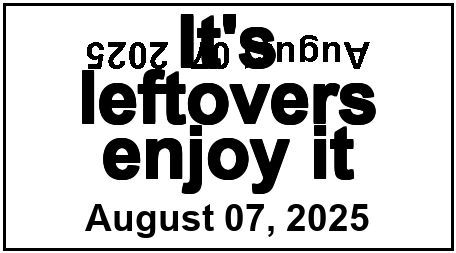
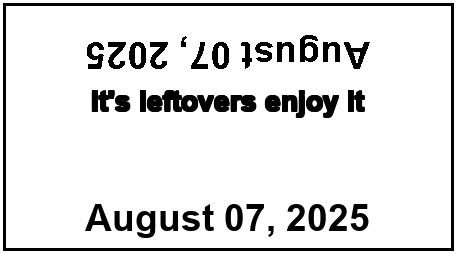
2. Improved fallback handling when no font size fits properly

Changed region(s): [[0.1535, 0.249, 0.8289, 0.7747], [0.3684, 0.0553, 0.614, 0.2767]]

diff --git a/date-printer.py b/date-printer.py
@@ -213,10 +213,15 @@ def generate_label_image(date_str, date_obj, config, printer_config, message=Non
         available_height = date_y - top_margin - 10  # 10px buffer from date
         max_message_width = int(width_px * 0.9)  # 90% of width
         
-        # Find appropriate font size for message (start larger since we'll wrap)
+        # Find appropriate font size for message - start smaller and cap at reasonable size
+        max_message_font = min(max_font, int(date_font_size * 0.8))  # Cap at 80% of date font size
         message_font_size = min_font
-        for size in range(min_font, max_font):
-            # Try with bold font (use regular font path but we'll make it bold later)
+        final_lines = []
+        final_line_heights = []
+        final_line_widths = []
+        final_total_height = 0
+        
+        for size in range(min_font, max_message_font):
             font = ImageFont.truetype(config['font_path'], size)
             
             # Get wrapped lines for this font size
@@ -241,14 +246,32 @@ def generate_label_image(date_str, date_obj, config, printer_config, message=Non
                 final_line_widths = line_widths
                 final_total_height = total_height
             else:
-                # Previous size was the best fit
+                # This size is too big, use previous size
                 break
         
         # Use the determined font size for message
         message_font = ImageFont.truetype(config['font_path'], message_font_size)
         
+        # Ensure we have valid data (fallback if no font size worked)
+        if not final_lines:
+            # Fallback to minimum font size with whatever fits
+            font = ImageFont.truetype(config['font_path'], min_font)
+            final_lines = wrap_text_to_fit(message, font, draw, max_message_width)
+            final_line_heights = []
+            final_line_widths = []
+            for line in final_lines:
+                bbox = draw.textbbox((0, 0), line, font=font)
+                final_line_heights.append(bbox[3] - bbox[1])
+                final_line_widths.append(bbox[2] - bbox[0])
+            line_spacing = 2
+            final_total_height = sum(final_line_heights) + (len(final_lines) - 1) * line_spacing
+            message_font_size = min_font
+        
         # Calculate vertical centering for the entire text block
         block_start_y = top_margin + (available_height - final_total_height) // 2
+        
+        print(f"DEBUG: top_margin={top_margin}, available_height={available_height}, final_total_height={final_total_height}")
+        print(f"DEBUG: block_start_y calculated as: {top_margin} + ({available_height} - {final_total_height}) // 2 = {block_start_y}")
         
         # Draw each line, centered horizontally
         current_y = block_start_y
